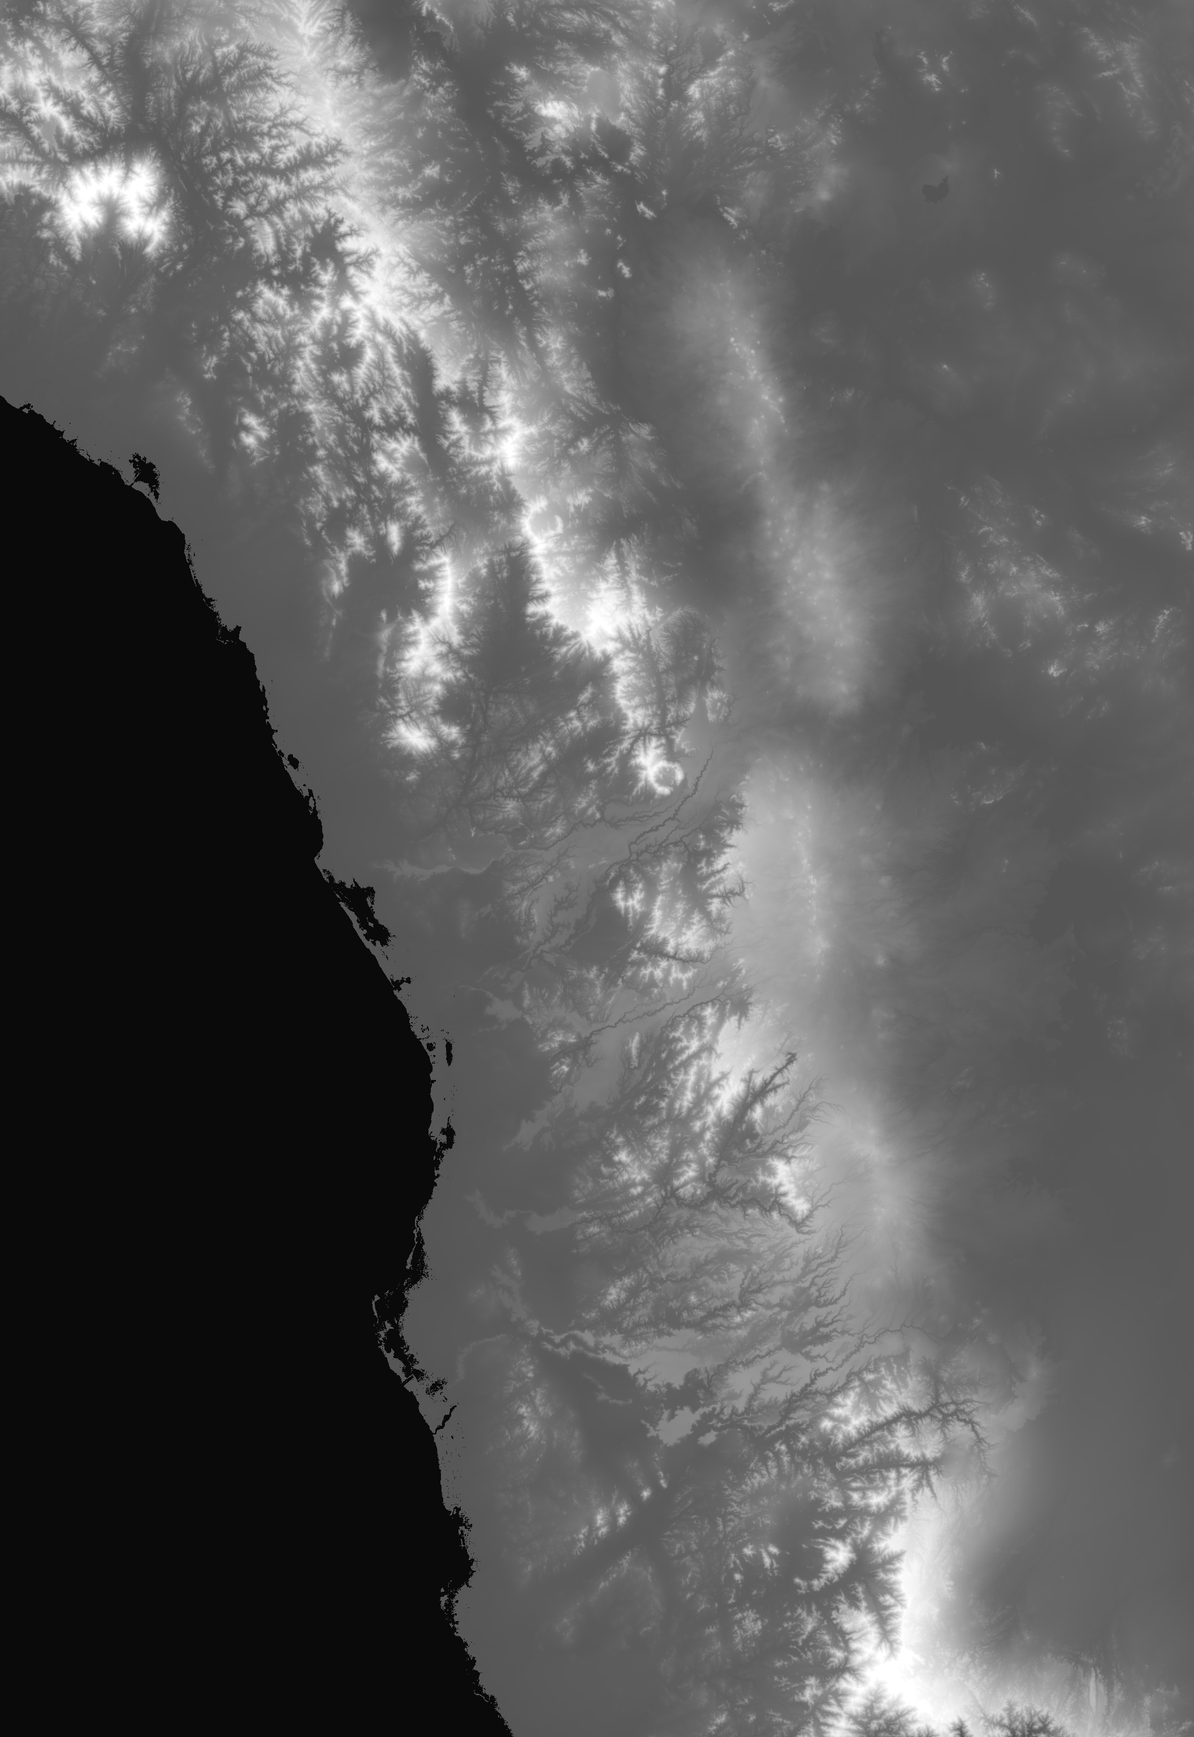
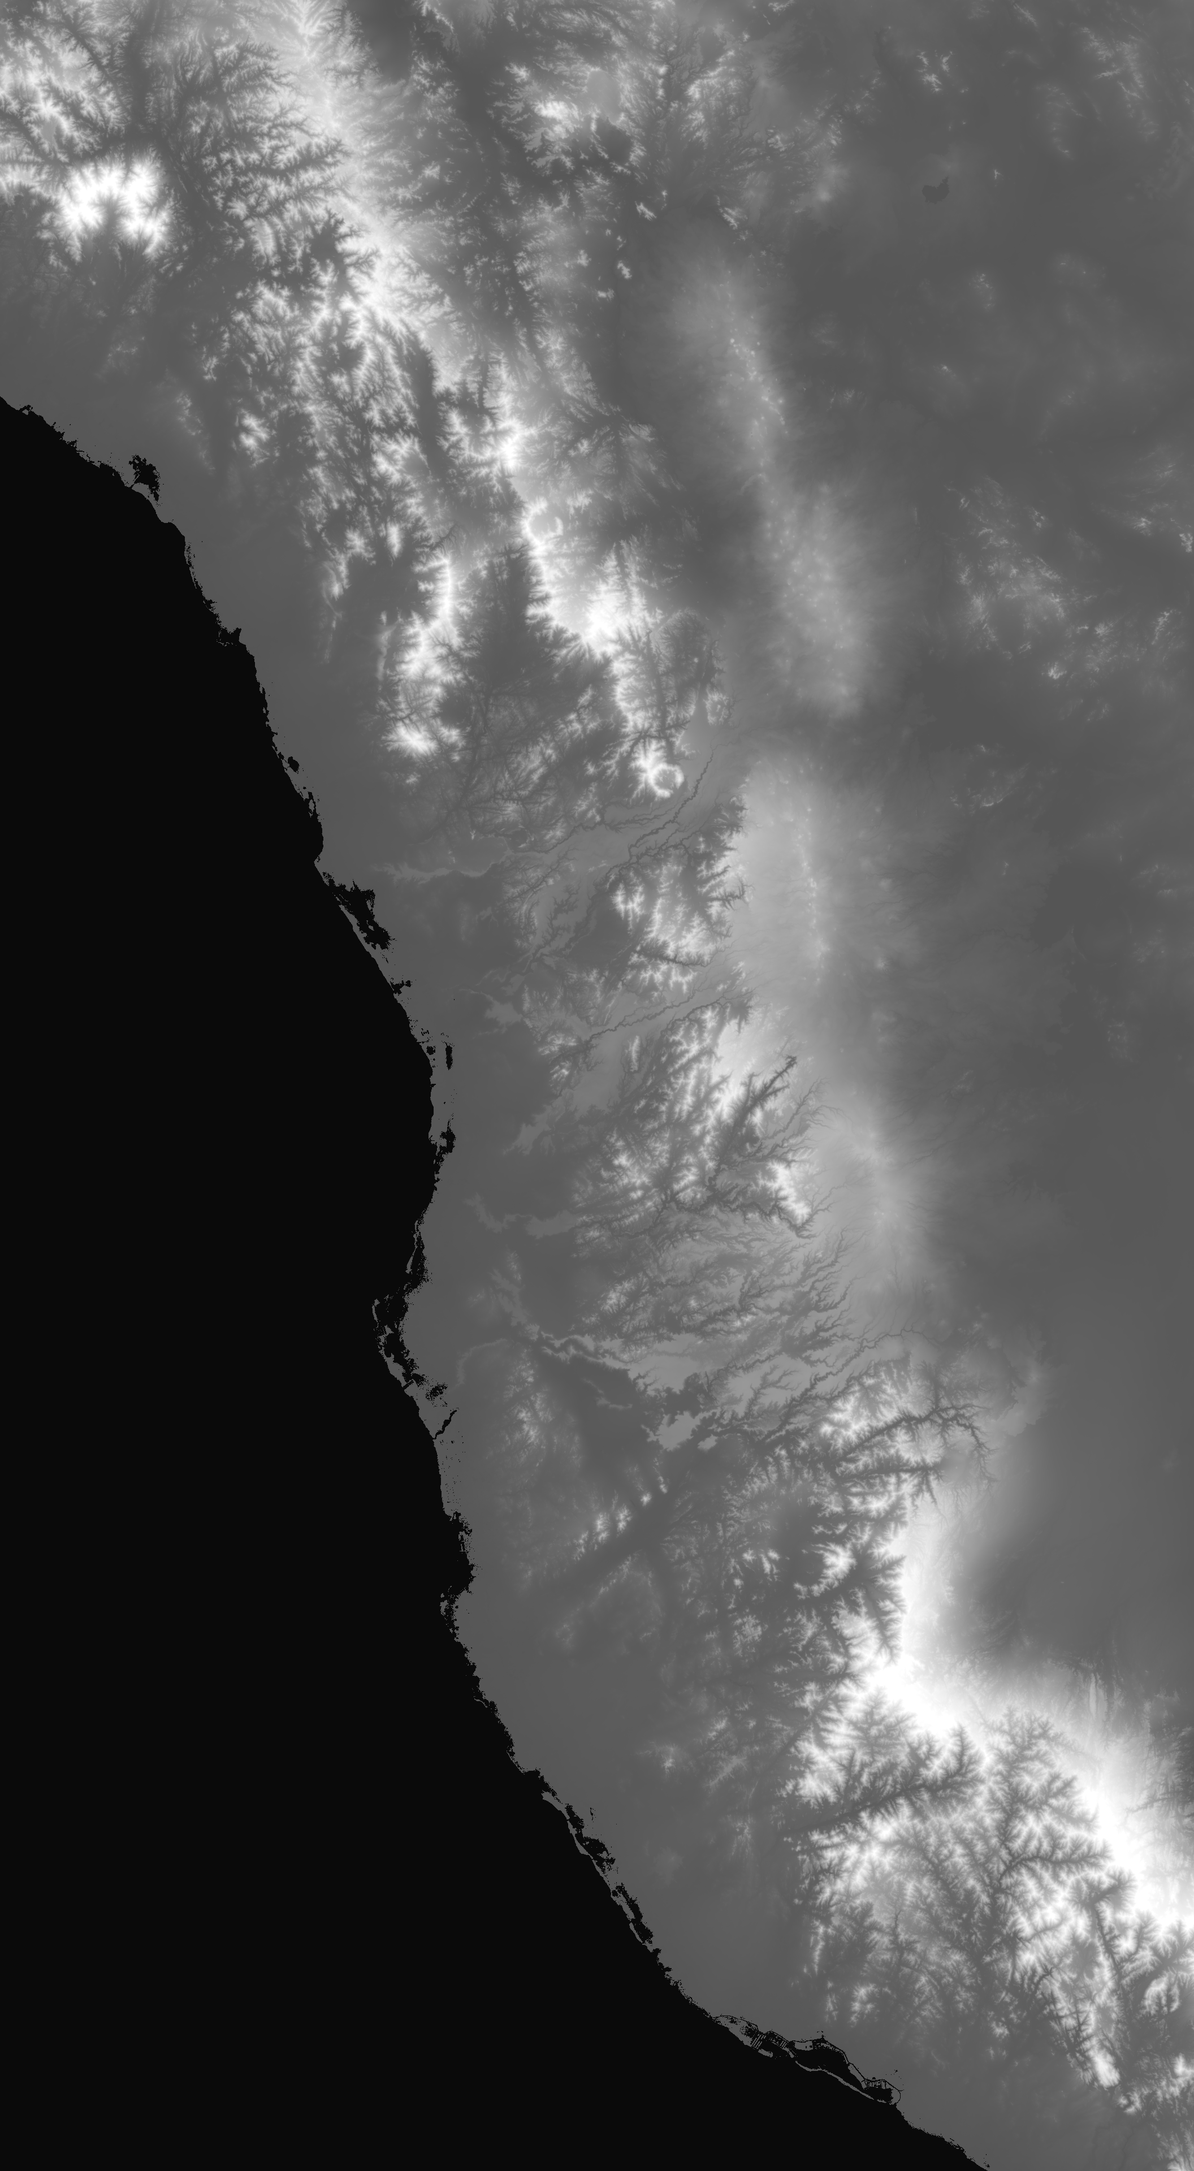
Show the five miqats on the map
The "At the miqat" chip now opens a miqat view: Dhul-Hulaifah, Al-Juhfah,
Qarn al-Manazil, Yalamlam and Dhat 'Irq framed on the region map, at their
OpenStreetMap positions. Each panel says only who the miqat is for, from
the cited hadith; Dhat 'Irq shows both accounts of who set it. The
elevation now reaches 20 N so Yalamlam is on land. Also fixes a ghost
click where a map tap that opened the sheet pressed a jump button.

Claude-Session: https://claude.ai/code/session_01NUgj7sJyWkEi58kYBvQNzB

Changed region(s): [[0.0, 0.0, 1.0, 1.0], [0.8125, 0.25, 0.9375, 0.4062], [0.6562, 0.0938, 0.7188, 0.125]]

diff --git a/src/App.tsx b/src/App.tsx
@@ -14,7 +14,7 @@ import {
 } from './themes';
 import { PAPER_OWNER, PAPER_STAGES } from './scene/papercut';
 import { MARWA, SAFA, STEPS } from './data/steps';
-import { MOSQUES, PLACES as SITES, type Place } from './data/places';
+import { MIQATS, MOSQUES, PLACES as SITES, type Place } from './data/places';
 import { loadCity, loadRegion, type CityData, type RegionData } from './scene/realCity';
 import { distanceMetres, regionXZ } from './scene/projection';
 
@@ -74,6 +74,7 @@ function greenDome(m: CityData | null): [number, number] | null {
 
 /** How far to stand back when a place is chosen (metres). */
 function focusDistance(p: Place) {
+  if (p.kind === 'miqat') return 9000;
   if (p.id === 'badr') return 6000;
   return p.id === 'haram' || p.id === 'nabawi' ? 1500 : 2500;
 }
@@ -81,7 +82,11 @@ function focusDistance(p: Place) {
 /** Straight-line distance from the nearer of the two mosques, in plain words. */
 function distanceText(p: Place) {
   if (MOSQUES.some((m) => m.id === p.id)) return null;
-  const [m, d] = MOSQUES.map((m) => [m, distanceMetres(m, p)] as const).sort((a, b) => a[1] - b[1])[0];
+  // Miqats are measured from Masjid al-Haram, the destination; other places from the nearer mosque.
+  const [m, d] =
+    p.kind === 'miqat'
+      ? [MOSQUES[0], distanceMetres(MOSQUES[0], p)]
+      : MOSQUES.map((m) => [m, distanceMetres(m, p)] as const).sort((a, b) => a[1] - b[1])[0];
   const amount = d < 1000 ? `${Math.round(d / 50) * 50} m` : d < 20_000 ? `${(d / 1000).toFixed(1)} km` : `${Math.round(d / 1000)} km`;
   return `About ${amount} from ${m.short}, in a straight line. Walking and travel routes come later.`;
 }
@@ -123,6 +128,8 @@ export function App() {
   // The bottom sheet starts collapsed (owner's request) so the map gets the room;
   // choosing a step or a place opens it.
   const [sheetOpen, setSheetOpen] = useState(false);
+  // The miqat view (from the "At the miqat" chip): the five miqats on the region map.
+  const [miqatMode, setMiqatMode] = useState(false);
   const [tilted, setTilted] = useState(false);
   const canvasRef = useRef<HTMLCanvasElement>(null);
   const legendRef = useRef<HTMLDivElement>(null);
@@ -177,7 +184,9 @@ export function App() {
       SITES.forEach((p) => {
         // Badr stays visible from far out; the others appear once a city fills the view.
         // The Haram's own pin gives way to the step pins up close.
-        const range = p.id === 'badr' ? {} : { maxDist: CITY_VIEW, ...(p.id === 'haram' ? { minDist: STREET_VIEW } : {}) };
+        // Miqats show at any distance, but only in the miqat view (see .miqat-mode in styles.css).
+        const range =
+          p.id === 'badr' || p.kind === 'miqat' ? {} : { maxDist: CITY_VIEW, ...(p.id === 'haram' ? { minDist: STREET_VIEW } : {}) };
         pins.push({ el: pinEls.current.get(`site-${p.id}`)!, pos: sitePos(p), ...range });
       });
       CITY_LABELS.forEach((c) => {
@@ -201,6 +210,7 @@ export function App() {
   const choose = (n: number | null) => {
     setSelected(n);
     if (n !== null) setSheetOpen(true);
+    setMiqatMode(false);
     setPlaceId(null);
     const step = STEPS.find((s) => s.n === n);
     if (step?.pos) sceneRef.current?.focus(toScene(step.pos));
@@ -211,9 +221,27 @@ export function App() {
   const choosePlace = (p: Place) => {
     setSelected(null);
     setSheetOpen(true);
+    if (p.kind !== 'miqat') setMiqatMode(false);
     setPlaceId(p.id);
+    if (p.kind === 'miqat') {
+      // Nothing stands at a miqat on this map, so look straight down on it.
+      sceneRef.current?.lookDownAt(sitePos(p), focusDistance(p));
+      setTilted(false);
+      return;
+    }
     sceneRef.current?.focus(sitePos(p), focusDistance(p));
     setTilted(true);
+  };
+
+  /** The "At the miqat" chip: steps 1 and 2, and (with the regional map) the five miqats framed. */
+  const openMiqats = () => {
+    if (!showRegion) return choose(MIQAT_STEPS[0].n);
+    setSelected(MIQAT_STEPS[0].n);
+    setPlaceId(null);
+    setSheetOpen(true);
+    setMiqatMode(true);
+    sceneRef.current?.frame(MIQATS.map(sitePos));
+    setTilted(false);
   };
 
   /** Tapping a city name zooms to the whole city, looking straight down. */
@@ -237,8 +265,28 @@ export function App() {
     tapStart.current = null;
     if (!start || start.id !== e.pointerId) return;
     if (Math.hypot(e.clientX - start.x, e.clientY - start.y) > 8 || e.timeStamp - start.t > 600) return;
+    // The browser follows a tap with its own click a moment later. If the tap opens
+    // the sheet, the map shrinks and that click would land on whatever button has
+    // moved under the finger (a "ghost click"), so ignore it.
+    suppressClickUntil.current = performance.now() + 600;
+    suppressAt.current = { x: e.clientX, y: e.clientY };
     tapAt(e.clientX, e.clientY);
   };
+  const suppressClickUntil = useRef(0);
+  const suppressAt = useRef({ x: 0, y: 0 });
+  useEffect(() => {
+    const swallow = (ev: MouseEvent) => {
+      // Only browser-made clicks (from a touch); clicks the app makes itself pass.
+      const near = Math.hypot(ev.clientX - suppressAt.current.x, ev.clientY - suppressAt.current.y) < 30;
+      if (ev.isTrusted && near && performance.now() < suppressClickUntil.current) {
+        suppressClickUntil.current = 0;
+        ev.stopPropagation();
+        ev.preventDefault();
+      }
+    };
+    document.addEventListener('click', swallow, true);
+    return () => document.removeEventListener('click', swallow, true);
+  }, []);
   const tapAt = (x: number, y: number) => {
     let best: { el: HTMLElement; d: number } | null = null;
     for (const el of pinEls.current.values()) {
@@ -274,7 +322,7 @@ export function App() {
           }}
         />
 
-        <div className="pins">
+        <div className={`pins${miqatMode ? ' miqat-mode' : ''}`}>
           {PAPER && greenDome(regional?.madinah ?? null) && (
             <span ref={setPinEl('place-Green Dome')} className="place">
               <span>Green Dome</span>
@@ -298,7 +346,8 @@ export function App() {
                 key={c.name}
                 ref={setPinEl(`city-${c.name}`)}
                 type="button"
-                className="city-label"
+                // In the miqat view the Makkah name stays, as the point the miqats surround.
+                className={`city-label${c.name === 'Makkah' ? ' keep-in-miqat' : ''}`}
                 onClick={() => openCity(c.placeId)}
               >
                 <span>{c.name}</span>
@@ -310,7 +359,7 @@ export function App() {
                 key={p.id}
                 ref={setPinEl(`site-${p.id}`)}
                 type="button"
-                className={`spot${placeId === p.id ? ' is-on' : ''}`}
+                className={`spot${p.kind === 'miqat' ? ' is-miqat' : ''}${placeId === p.id ? ' is-on' : ''}`}
                 aria-label={p.name}
                 aria-pressed={placeId === p.id}
                 onClick={() => choosePlace(p)}
@@ -339,7 +388,7 @@ export function App() {
         <button
           type="button"
           className={`miqat${MIQAT_STEPS.some((s) => s.n === selected) ? ' is-on' : ''}`}
-          onClick={() => choose(MIQAT_STEPS[0].n)}
+          onClick={openMiqats}
         >
           <span className="miqat-nums" aria-hidden="true">
             {MIQAT_STEPS.map((s) => (
@@ -433,7 +482,7 @@ export function App() {
           ) : (
             <span className="sheet-peek">
               <span className="step-count">
-                {place ? `Places · ${place.city}` : step ? `Step ${step.n} of ${STEPS.length}` : 'Umrah in seven steps'}
+                {place ? (place.kind === 'miqat' ? 'Miqat' : `Places · ${place.city}`) : step ? `Step ${step.n} of ${STEPS.length}` : 'Umrah in seven steps'}
               </span>
               <span className="sheet-peek-title">{place ? place.name : step ? step.title : 'Where each step happens'}</span>
               <span className="sr-only">: show details</span>
@@ -444,7 +493,7 @@ export function App() {
           <div className="sheet-head">
             <div>
               <p className="step-count">
-                {place ? `Places · ${place.city}` : step ? `Step ${step.n} of ${STEPS.length}` : 'Umrah in seven steps'}
+                {place ? (place.kind === 'miqat' ? 'Miqat' : `Places · ${place.city}`) : step ? `Step ${step.n} of ${STEPS.length}` : 'Umrah in seven steps'}
               </p>
               <h1>{place ? place.name : step ? step.title : 'Where each step happens'}</h1>
             </div>
@@ -457,7 +506,7 @@ export function App() {
           {place ? (
             <div className="place-info">
               <p className="lede">
-                {place.pinNote ? `${place.pinNote} ` : ''}The description will be written from the sources below.
+                {place.note ?? `${place.pinNote ? `${place.pinNote} ` : ''}The description will be written from the sources below.`}
               </p>
               {distance && <p className="place-distance">{distance}</p>}
               <h2 className="sources-title">Sources</h2>

diff --git a/src/data/places.ts b/src/data/places.ts
@@ -27,6 +27,10 @@ export interface Place {
   /** What the pin marks, when that is not obvious. */
   pinNote?: string;
   sources: Source[];
+  /** Miqats are shown differently: with the region map and the miqat chip. */
+  kind?: 'miqat';
+  /** For a miqat: only what its sources say (who it is for). No rulings. */
+  note?: string;
 }
 
 const hadith = (label: string, id: number): Source => ({ label, url: `https://search.hadith-mcp.org/?id=${id}` });
@@ -96,7 +100,77 @@ export const PLACES: Place[] = [
     sources: [{ label: 'Quran 3:123', url: 'https://quran.com/3:123' }],
   },
   // Al-Baqi' is approved but its outline was not in the downloads; added once it is.
+
+  // ---- Miqats (owner approved 18 Nov 2026). Positions: the "Miqat" monuments in
+  // OpenStreetMap (export of 18 Nov 2026), each with a Wikidata link. Notes say only
+  // who each miqat is for, as the cited hadith say. No rulings (stage 2, scholar review).
+  {
+    id: 'miqat-dhul-hulaifah',
+    name: "Dhul-Hulaifah (Abyar 'Ali)",
+    short: 'Dhul-Hulaifah',
+    city: 'Madinah',
+    lat: 24.4137405,
+    lon: 39.5428117,
+    osm: 'way/457470976 (Miqat Dhul Hulaifah, wikidata Q6783320)',
+    kind: 'miqat',
+    note: 'Miqat for the people of Madinah, and for others who come through it.',
+    sources: [hadith('Sahih al-Bukhari 1477', 1477), hadith('Sahih al-Bukhari 1478', 1478)],
+  },
+  {
+    id: 'miqat-juhfah',
+    name: 'Al-Juhfah',
+    short: 'Al-Juhfah',
+    city: 'Makkah',
+    lat: 22.7054134,
+    lon: 39.146905,
+    osm: 'way/456361985 (Miqat Al-Juhfah, wikidata Q12185431)',
+    kind: 'miqat',
+    note: 'Miqat for the people of Sham, and for others who come through it.',
+    sources: [hadith('Sahih al-Bukhari 1477', 1477), hadith('Sahih al-Bukhari 1478', 1478)],
+  },
+  {
+    id: 'miqat-qarn',
+    name: 'Qarn al-Manazil (As-Sayl al-Kabir)',
+    short: 'Qarn al-Manazil',
+    city: 'Makkah',
+    lat: 21.6334899,
+    lon: 40.4275143,
+    osm: 'way/457491862 (Miqat Qarn Al Manazil, wikidata Q12232506)',
+    kind: 'miqat',
+    note: 'Miqat for the people of Najd, and for others who come through it.',
+    sources: [hadith('Sahih al-Bukhari 1477', 1477), hadith('Sahih al-Bukhari 1478', 1478)],
+  },
+  {
+    id: 'miqat-yalamlam',
+    name: "Yalamlam (As-Sa'diyyah)",
+    short: 'Yalamlam',
+    city: 'Makkah',
+    lat: 20.51715,
+    lon: 39.8711027,
+    osm: 'way/456362592 (Miqat Yalamlam, wikidata Q3595659)',
+    kind: 'miqat',
+    note: 'Miqat for the people of Yemen, and for others who come through it.',
+    sources: [hadith('Sahih al-Bukhari 1477', 1477), hadith('Sahih al-Bukhari 1478', 1478)],
+  },
+  {
+    id: 'miqat-dhat-irq',
+    name: "Dhat 'Irq",
+    short: "Dhat 'Irq",
+    city: 'Makkah',
+    lat: 21.930132,
+    lon: 40.42565,
+    osm: 'way/457487766 (Miqat Dhaatu IRQ, wikidata Q12212593)',
+    kind: 'miqat',
+    note: "Miqat for the people of Iraq. The narrations differ on who set it: one says the Prophet \u{FDFA} set it; another says Umar did.",
+    sources: [
+      hadith('Sunan Abi Dawud 1740 (the Prophet \u{FDFA})', 22244),
+      hadith("Sunan an-Nasa'i 2661 (the Prophet \u{FDFA})", 17397),
+      hadith('Bulugh al-Maram 833, citing al-Bukhari (Umar)', 49950),
+    ],
+  },
 ];
+
+export const MIQATS = PLACES.filter((p) => p.kind === 'miqat');
 
 /** The two mosques that distances are measured from. */
 export const MOSQUES = PLACES.filter((p) => p.id === 'haram' || p.id === 'nabawi');

diff --git a/src/scene/CityScene.ts b/src/scene/CityScene.ts
@@ -121,7 +121,8 @@ const MAX_DISTANCE = 2600;
 /** With the regional map: far enough out to see Makkah and Madinah together. */
 const MAX_DISTANCE_REGION = 1_600_000;
 /** The regional map's area, in metres from its origin, that the view may be dragged across. */
-const REGION_BOUNDS = { minX: -120_000, maxX: 100_000, minZ: -210_000, maxZ: 215_000 };
+// maxZ reaches the Yalamlam miqat (20.5 N), about 270 km south of the origin.
+const REGION_BOUNDS = { minX: -120_000, maxX: 100_000, minZ: -210_000, maxZ: 290_000 };
 
 const MIN_POLAR = 0.02; // straight down
 const MAX_POLAR = 1.3; // close to the horizon
@@ -1061,6 +1062,22 @@ export class CityScene {
   /** Move in on one point, keeping the current compass direction. */
   focus(pos: [number, number], distance = 720) {
     this.flyTo(new THREE.Vector3(pos[0], 0, pos[1]), distance, 0.75, this.tiltAzimuth());
+  }
+
+  /** Fit a set of points (scene metres) on screen from above, north up. Used for the miqat view. */
+  frame(points: [number, number][]) {
+    const box = new THREE.Box3();
+    points.forEach(([x, z]) => box.expandByPoint(new THREE.Vector3(x, 0, z)));
+    const size = box.getSize(new THREE.Vector3());
+    const vHalf = THREE.MathUtils.degToRad(this.camera.fov / 2);
+    const hHalf = Math.atan(Math.tan(vHalf) * this.camera.aspect);
+    // Leave room for the labels beside each pin, and (Papercut) the buttons at the bottom.
+    const dist = Math.max(size.z / 2 / Math.tan(vHalf), size.x / 2 / Math.tan(hHalf)) * (this.paper ? 1.9 : 1.45);
+    const centre = box.getCenter(new THREE.Vector3());
+    // Shift the points left of centre, clear of the map buttons on the right (labels sit to the right of each pin).
+    centre.x += 0.12 * 2 * dist * Math.tan(hHalf);
+    if (this.paper) centre.z += 0.12 * 2 * dist * Math.tan(vHalf);
+    this.flyTo(centre, dist, AERIAL_POLAR, 0);
   }
 
   /** Move to a point from straight above, at a given distance (used for whole cities). */

diff --git a/src/styles.css b/src/styles.css
@@ -14,7 +14,8 @@
   /* Map pins: softer than the near-black ink, still 3:1 against white for the border. */
   --pin-line: #6b7c99;
   --pin-ink: #1e2a47;
-  --font-body: 'Hanken Grotesk Variable', system-ui, sans-serif;
+  /* Noto Naskh Arabic fills in characters Hanken lacks, such as \FDFA (the honorific after the Prophet's name). */
+  --font-body: 'Hanken Grotesk Variable', 'Noto Naskh Arabic Variable', system-ui, sans-serif;
   --font-arabic: 'Noto Naskh Arabic Variable', serif;
 }
 
@@ -664,4 +665,12 @@ h1 {
   height: 10px;
   border-radius: 2px;
   border: 1px solid var(--line);
+}
+
+/* Miqat view: the miqat pins show only after the "At the miqat" chip is tapped, and
+   then the other place pins and city names step aside (the Makkah name stays as the
+   reference point). Choosing a step or another place leaves the view. */
+.pins:not(.miqat-mode) .spot.is-miqat,
+.pins.miqat-mode > :not(.is-miqat):not(.keep-in-miqat) {
+  display: none;
 }

diff --git a/docs/HANDOVER.md b/docs/HANDOVER.md
@@ -189,7 +189,11 @@ The owner reviews on their phone through a private Claude page: https://claude.a
 - Show the five miqats as pins on the existing map (Day and Papercut); the "1 2 At the miqat" chip will fly out to show them all.
 - Sources (Hadith tool): Dhul-Hulaifah (Madinah), Al-Juhfah (Sham), Qarn al-Manazil (Najd), Yalamlam (Yemen): Sahih al-Bukhari 1477 and 1478 (tool ids 1477, 1478). Dhat 'Irq (Iraq): included at the owner's request, with BOTH accounts shown: set by the Prophet ﷺ (Abu Dawud 1740, tool id 22244; Nasa'i 2661, tool id 17397) and set by Umar (Bukhari as cited in Bulugh al-Maram 833, tool id 49950).
 - Positions must come from OpenStreetMap (owner downloads; the session cannot reach Nominatim or Wikidata). Show only what the sources say: who each miqat is for and where it is. No rulings (stage 2 and scholar review).
-- If Yalamlam lies south of 21 N, extend the elevation bake south (owner approved).
+- **Built 18 Nov 2026.** Positions: the "Miqat" monuments in the owner's OpenStreetMap export (`data/raw/miqat.json`, gitignored), each with a Wikidata link; see `MIQATS` in `src/data/places.ts`. Yalamlam is at 20.5 N, so the elevation bake now covers 20 to 25 N (3840 rows); this nudged the city patches by at most 1/255 (414 Makkah cells changed layer, at layer edges; none in Madinah).
+- The "1 2 At the miqat" chip opens the miqat view: the five miqat pins framed on the region map, with only the Makkah name kept as the reference; choosing a step or another place leaves it. Tapping a miqat shows who it is for (from the hadith), its sources, and the straight-line distance from Masjid al-Haram.
+- Also in the export, not shown, needs the owner: "Miqat Wadi Mahram" (way 1493000494) near Qarn al-Manazil, and "Miqat al-Hada" (node 5423164921). Whether to show them is a religious question.
+- The Day look has no roads or coastline south of 21.1 N (its regional download stopped there), so Yalamlam sits on plain ground there; Papercut has elevation down to 20 N.
+- Fixed a "ghost click": a map tap that opened the sheet moved the jump buttons under the finger, and the browser's follow-up click pressed one. Clicks within 600 ms and 30 px of a handled map tap are ignored.
 
 ## Bottom sheet collapsed by default (owner, 18 Nov 2026)
 

diff --git a/docs/places-draft.md b/docs/places-draft.md
@@ -8,6 +8,18 @@ Status: **group 1 approved for the first version (15 Nov 2026):** Masjid al-Hara
 - **Sources:** Quran and hadith citations come from the Quran and Hadith tools with their links. Travel guides were used only to choose candidates, not as authorities. "Source needed" means nothing has been verified yet.
 - Scholars differ on visiting sites beyond the mosques and cemeteries named in hadith. The app describes places factually and claims no reward that is not narrated. Wording to be decided by the owner.
 
+## Miqats (shown on the map from 18 Nov 2026)
+
+| Miqat | For (from the hadith) | Position (OpenStreetMap) | Source |
+|---|---|---|---|
+| Dhul-Hulaifah (Abyar 'Ali) | People of Madinah | way 457470976, 24.4137 N 39.5428 E | Bukhari 1477 ([link](https://search.hadith-mcp.org/?id=1477)), 1478 ([link](https://search.hadith-mcp.org/?id=1478)) |
+| Al-Juhfah | People of Sham | way 456361985, 22.7054 N 39.1469 E | as above |
+| Qarn al-Manazil (As-Sayl al-Kabir) | People of Najd | way 457491862, 21.6335 N 40.4275 E | as above |
+| Yalamlam (As-Sa'diyyah) | People of Yemen | way 456362592, 20.5172 N 39.8711 E | as above |
+| Dhat 'Irq | People of Iraq | way 457487766, 21.9301 N 40.4257 E | Set by the Prophet ﷺ: Abu Dawud 1740 ([link](https://search.hadith-mcp.org/?id=22244)), Nasa'i 2661 ([link](https://search.hadith-mcp.org/?id=17397)). Set by Umar: Bukhari, cited in Bulugh al-Maram 833 ([link](https://search.hadith-mcp.org/?id=49950)). Both shown. |
+
+Not shown (owner to decide): Miqat Wadi Mahram (way 1493000494) and Miqat al-Hada (node 5423164921), both in the export.
+
 ## Makkah
 
 | Place | Why it is listed | Source so far |
